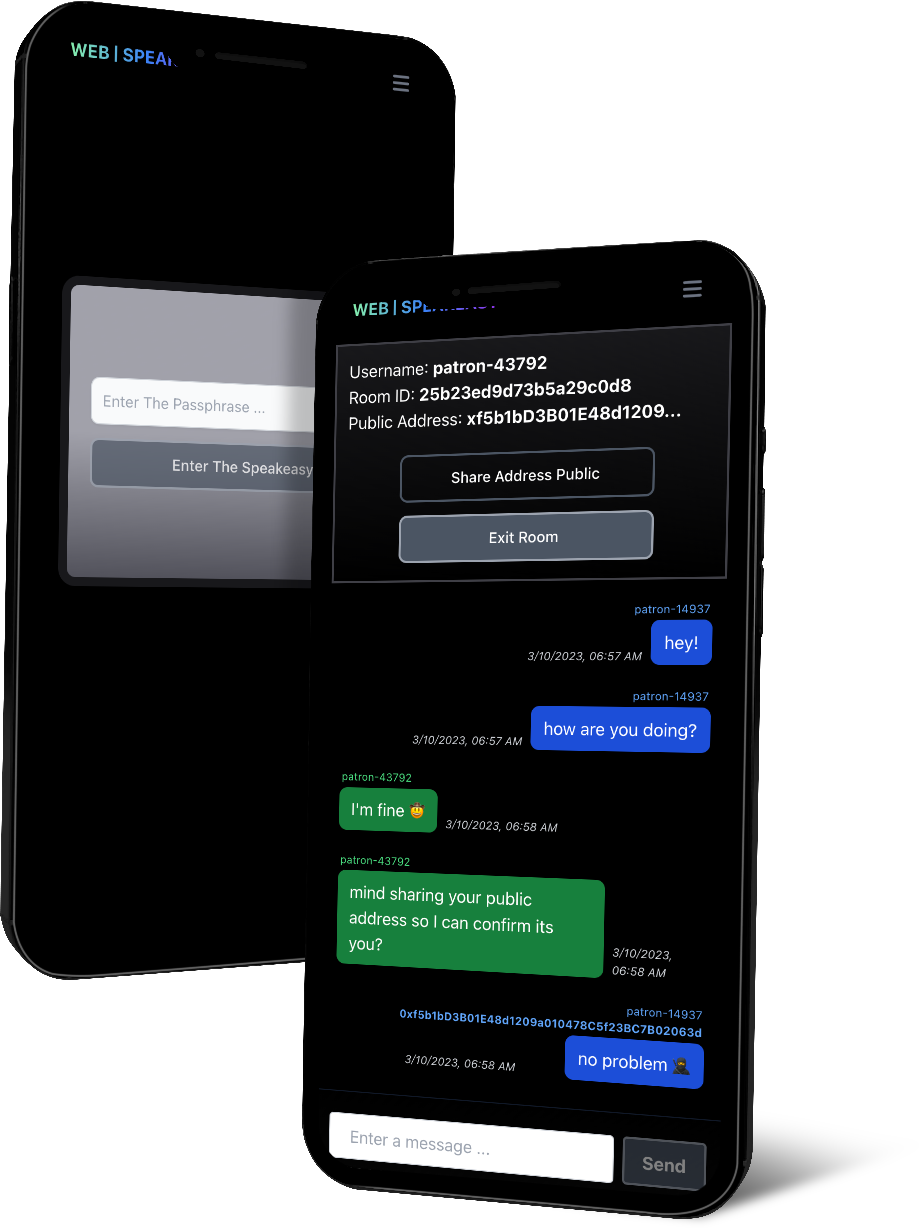
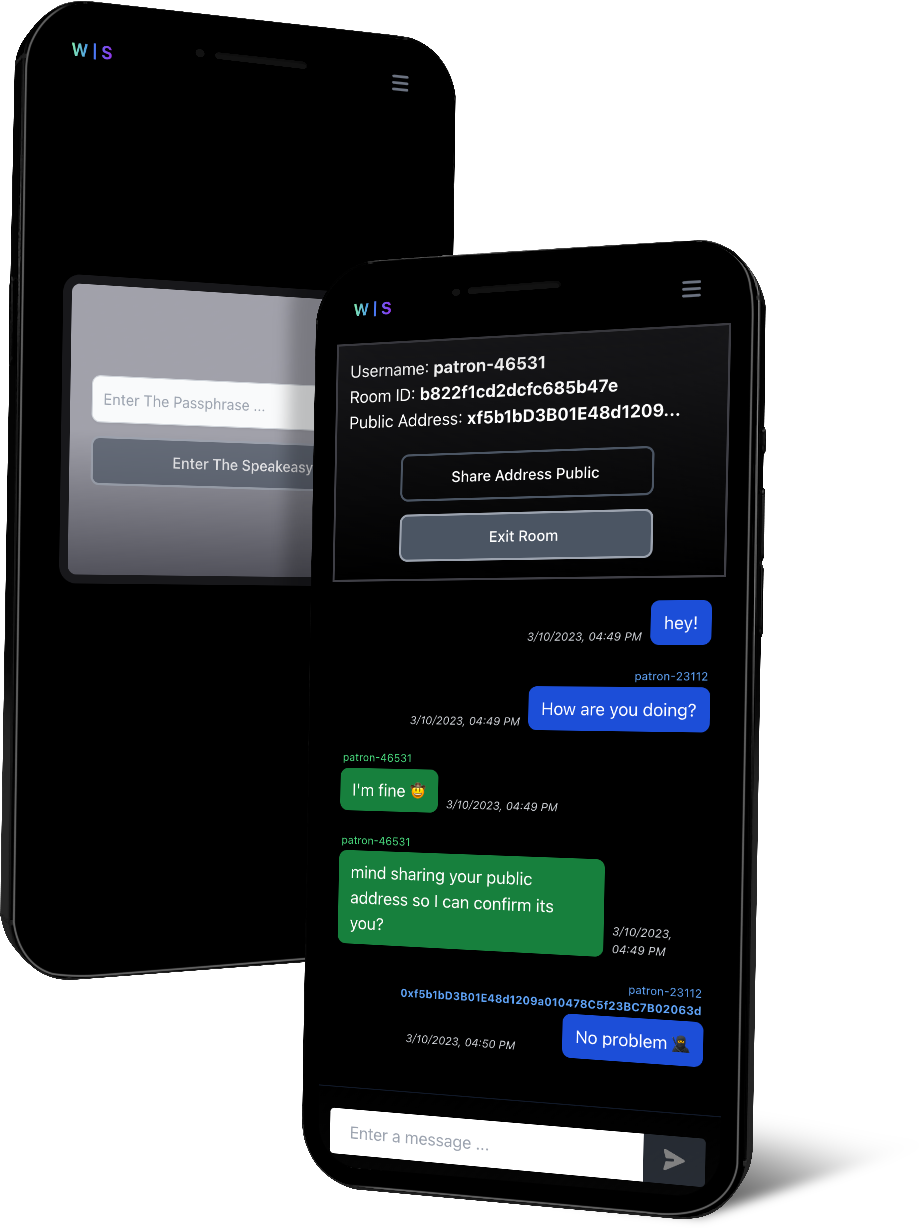
updated screenshot and added navbar shadow

diff --git a/components/SalesHero.tsx b/components/SalesHero.tsx
@@ -60,7 +60,7 @@ export default function SalesHero(){
          </a>
        </div>
        <div className="mt-12 lg:mt-0 lg:col-span-5 lg:flex">
-         <img src="/screenshot.png" className="sm:block md:hidden lg:block w-full ml-12 drop-shadow-xl grayscale" alt="mockup" />
+         <img src="/screenshot.png" className="sm:block md:hidden lg:block w-full ml-12 drop-shadow-xl" alt="mockup" />
        </div>
      </div>
    </section>

diff --git a/components/ui/Navbar/Navbar.module.css b/components/ui/Navbar/Navbar.module.css
@@ -1,5 +1,5 @@
 .root {
-  @apply sticky top-0 bg-black z-40 transition-all duration-150 border-gray-700;
+  @apply sticky top-0 bg-black z-40 transition-all duration-150 border-gray-700 shadow-2xl;
 }
 
 .link {
